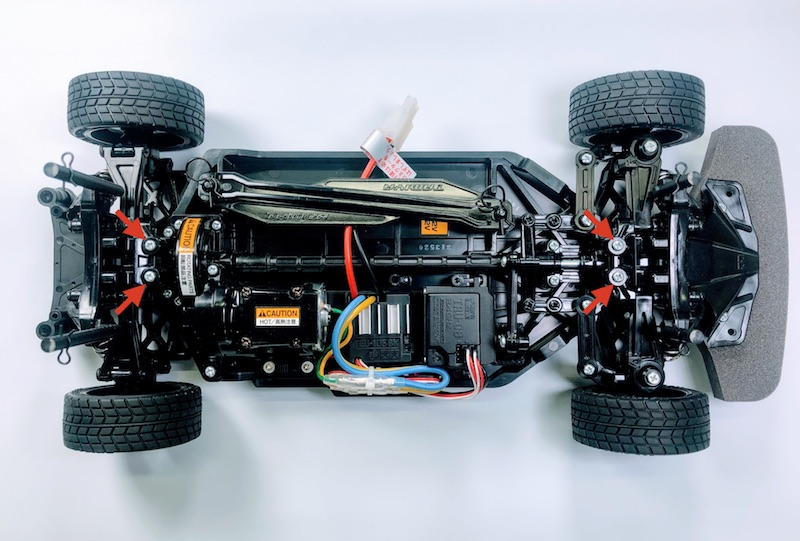
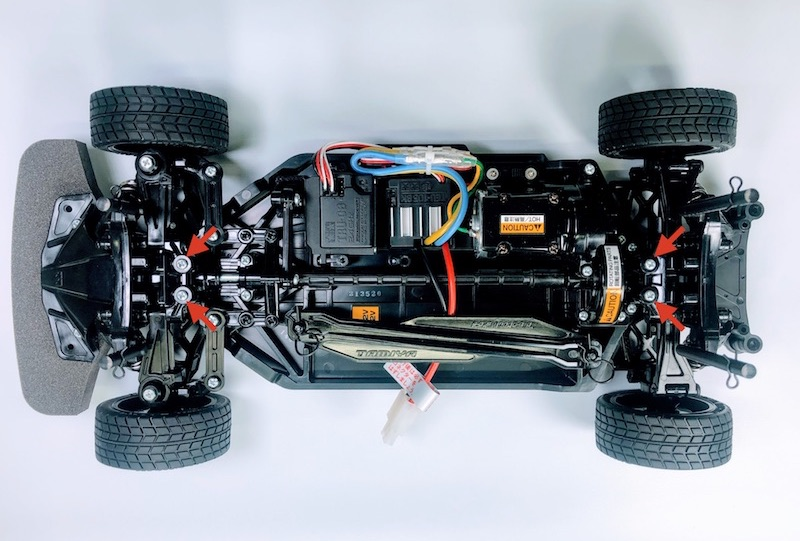
Deployed 5b3a7b9 with MkDocs version: 1.0.4

diff --git a/01.組み立て/01.build2/index.html b/01.組み立て/01.build2/index.html
@@ -987,8 +987,11 @@
 <h2 id="_2">シャーシの取り立て</h2>
 <p>矢印の箇所のネジ4本を取り外します。</p>
 <p><img alt="" src="../img/kit2_006.jpg" /></p>
-<p>モーターカバーのネジ4本を取り外します。</p>
+<p>モーターカバーのネジ4本を取り外し、モーターカバーを取り外します。</p>
 <p><img alt="" src="../img/kit2_007.jpg" /></p>
+<p><img alt="" src="../img/kit2_008.jpg" /></p>
+<p>最初に取り外したネジ4本を用いて再び固定します。</p>
+<p><img alt="" src="./img/kit2_009.jpg" /></p>
 <h2 id="_3">バッテリーフォルダの装着</h2>
 <p>指定位置にバッテリーフォルダを設置します。</p>
 <p><img alt="" src="../img/kit003.png" /></p>
